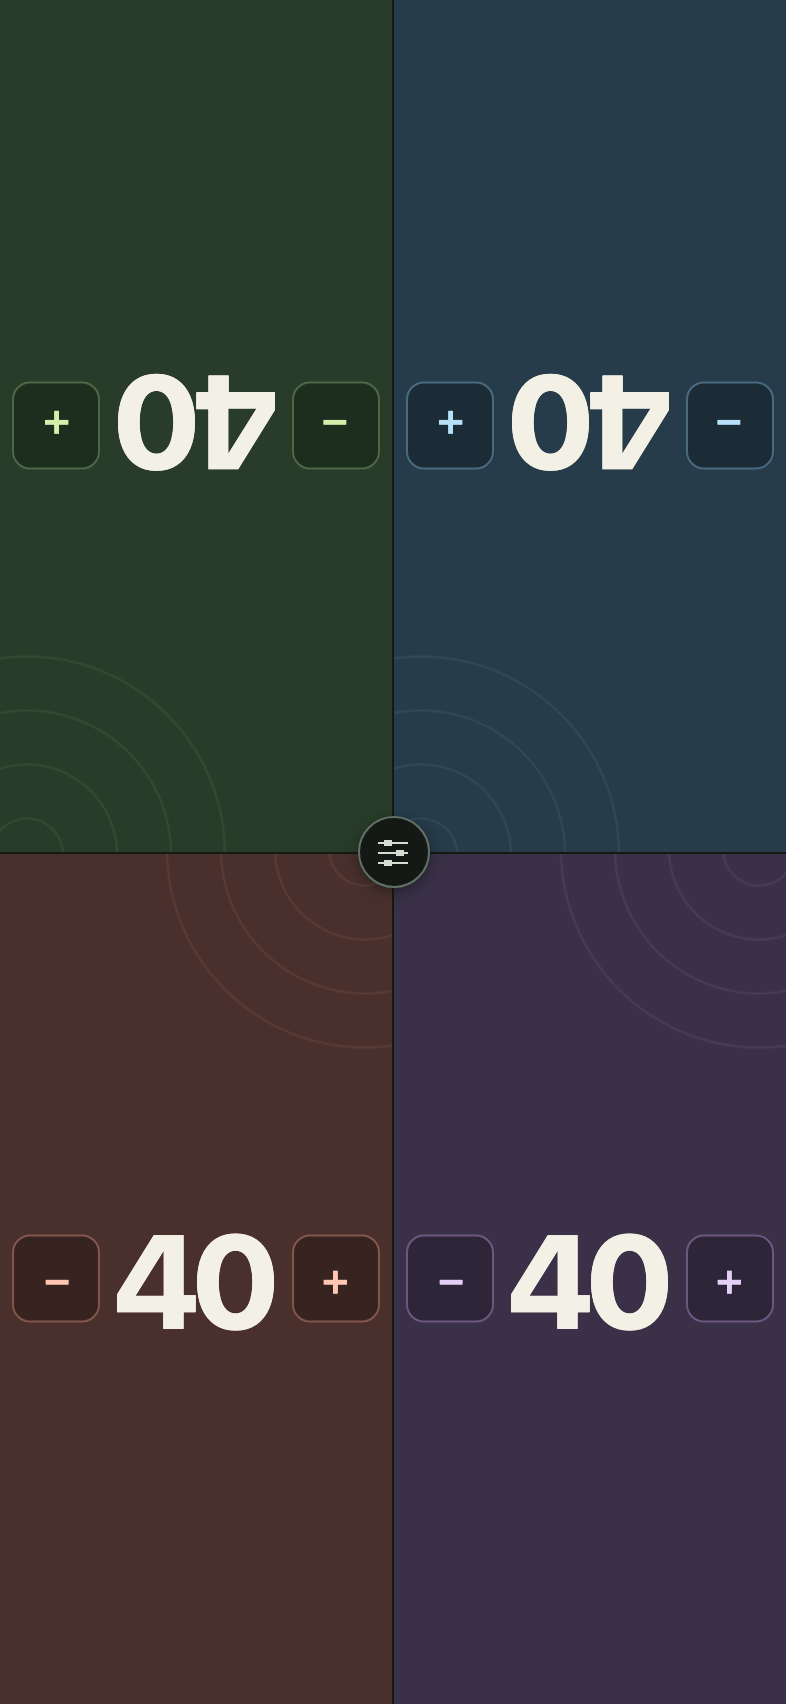
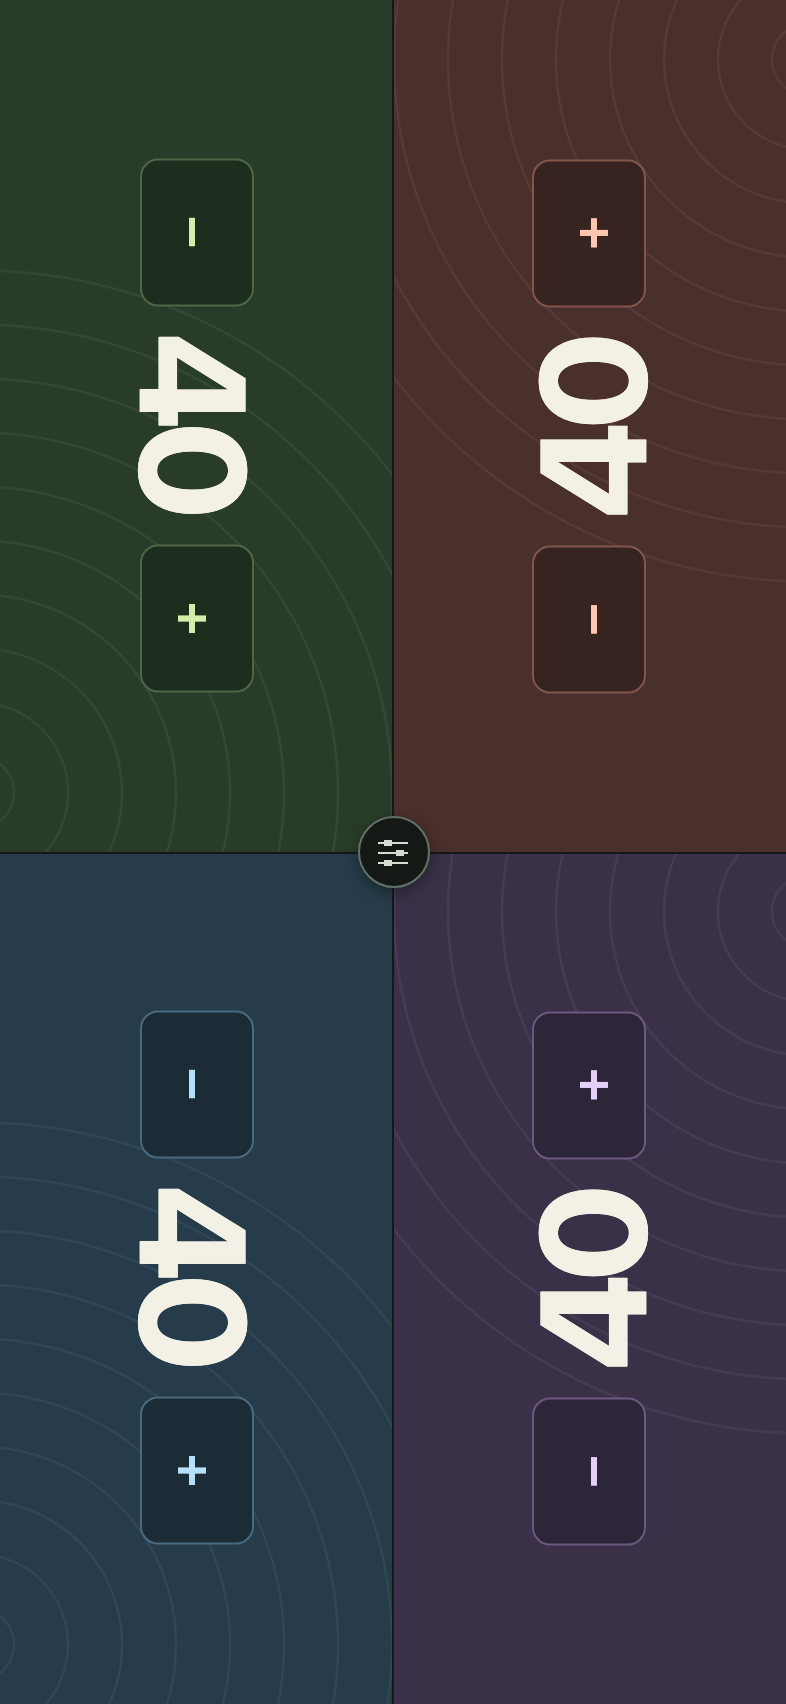
Face four and eight seats toward the long edges

diff --git a/web/app.js b/web/app.js
@@ -20,11 +20,11 @@ const clockwiseEdges = ['bottom', 'left', 'top', 'right'];
 const seatEdges = {
   2: [['top', 'bottom'], ['left', 'right']],
   3: [['top', 'top', 'bottom'], ['top', 'bottom', 'right']],
-  4: [['top', 'top', 'bottom', 'bottom'], ['top', 'top', 'bottom', 'bottom']],
+  4: [['left', 'left', 'right', 'right'], ['top', 'top', 'bottom', 'bottom']],
   5: [['top', 'top', 'bottom', 'bottom', 'bottom'], ['top', 'top', 'bottom', 'bottom', 'right']],
   6: [['top', 'top', 'bottom', 'bottom', 'bottom', 'bottom'], ['top', 'top', 'top', 'bottom', 'bottom', 'bottom']],
   7: [['top', 'top', 'top', 'top', 'bottom', 'bottom', 'bottom'], ['top', 'top', 'top', 'bottom', 'bottom', 'bottom', 'right']],
-  8: [['top', 'top', 'top', 'top', 'bottom', 'bottom', 'bottom', 'bottom'], ['top', 'top', 'top', 'top', 'bottom', 'bottom', 'bottom', 'bottom']],
+  8: [['left', 'left', 'left', 'left', 'right', 'right', 'right', 'right'], ['top', 'top', 'top', 'top', 'bottom', 'bottom', 'bottom', 'bottom']],
 };
 
 let game = loadGame();

diff --git a/web/styles.css b/web/styles.css
@@ -39,6 +39,7 @@ button:focus-visible, input:focus-visible { outline: 2px solid var(--accent); ou
 .board:where([data-count="5"], [data-count="6"]) { --rows: 3; }
 .board:where([data-count="7"], [data-count="8"]) { --rows: 4; }
 .board:where([data-count="3"], [data-count="5"], [data-count="7"]) .player:last-child { grid-column: 1 / -1; }
+.board[data-landscape="false"]:where([data-count="4"], [data-count="8"]) { grid-auto-flow: column; }
 
 .board[data-landscape="true"] { --rows: 2; }
 .board[data-landscape="true"][data-count="2"] { --columns: 2; --rows: 1; }

diff --git a/README.md b/README.md
@@ -18,8 +18,8 @@ A fresh install opens with four players at 40 life. Tap **−** or **+** to adju
 ## Screenshots
 
 <div align="center">
-<a href="screenshots/board.png"><img src="screenshots/board.png" width="180" alt="Default four-player board with seats facing opposite ends of the table" /></a>
-<a href="screenshots/eight-players.png"><img src="screenshots/eight-players.png" width="180" alt="Default eight-player board with four seats facing each end of the table" /></a>
+<a href="screenshots/board.png"><img src="screenshots/board.png" width="180" alt="Four-player portrait board with two seats facing each long side" /></a>
+<a href="screenshots/eight-players.png"><img src="screenshots/eight-players.png" width="180" alt="Eight-player portrait board with four seats facing each long side" /></a>
 <a href="screenshots/setup.png"><img src="screenshots/setup.png" width="180" alt="Setup for player count, starting life, screen awake, and seat rotation" /></a>
 <br />
 <sub>Four players · Eight players · Setup</sub>
@@ -35,7 +35,7 @@ A fresh install opens with four players at 40 life. Tap **−** or **+** to adju
 
 ## At the table
 
-Set the phone in the middle of the table. Players in the same row read their totals from the same direction, with **−** and **+** on either side. A seat that fills a side of the board in landscape faces that side. The board fills the screen, and one seat spans two slots when there are 3, 5, or 7 players.
+Set the phone in the middle of the table. With four or eight players, seats face the phone’s two long sides, with **−** and **+** on either side of each total. With three, five, or seven players, one seat spans two slots so the board still fills the screen.
 
 Tap the sliders in the center to choose 2–8 players, set the starting life, restart, or toggle **Keep awake**. Changing the player count or starting life starts a new game. **Keep awake** is on by default. Scores and settings are saved between launches.
 
